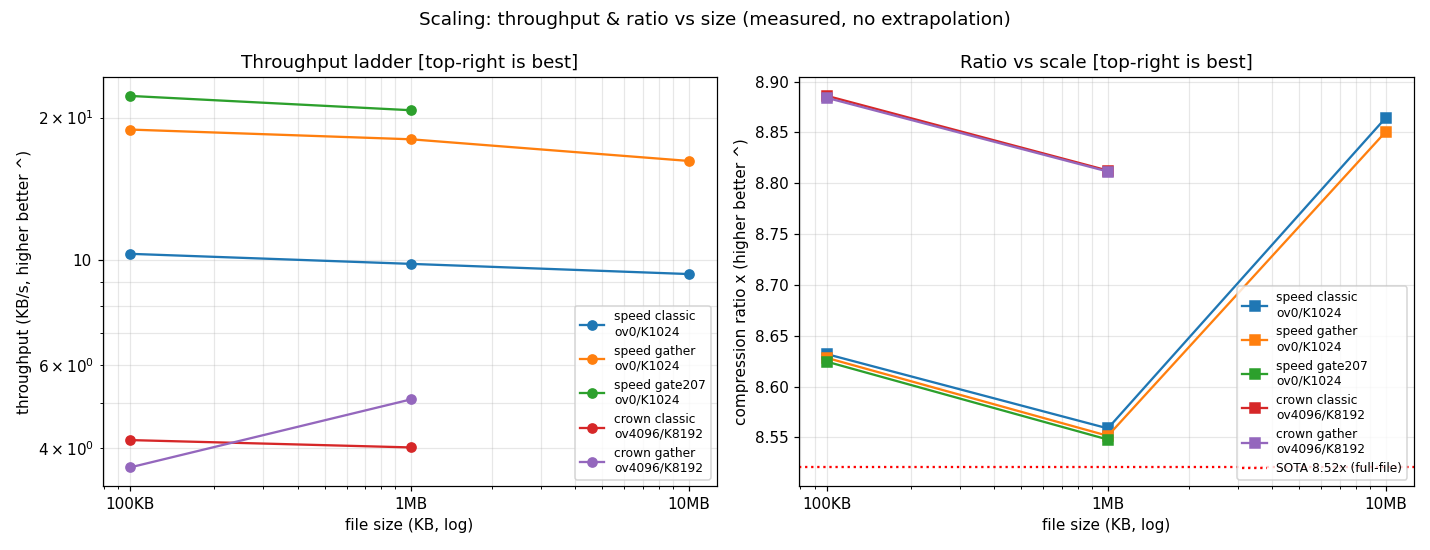
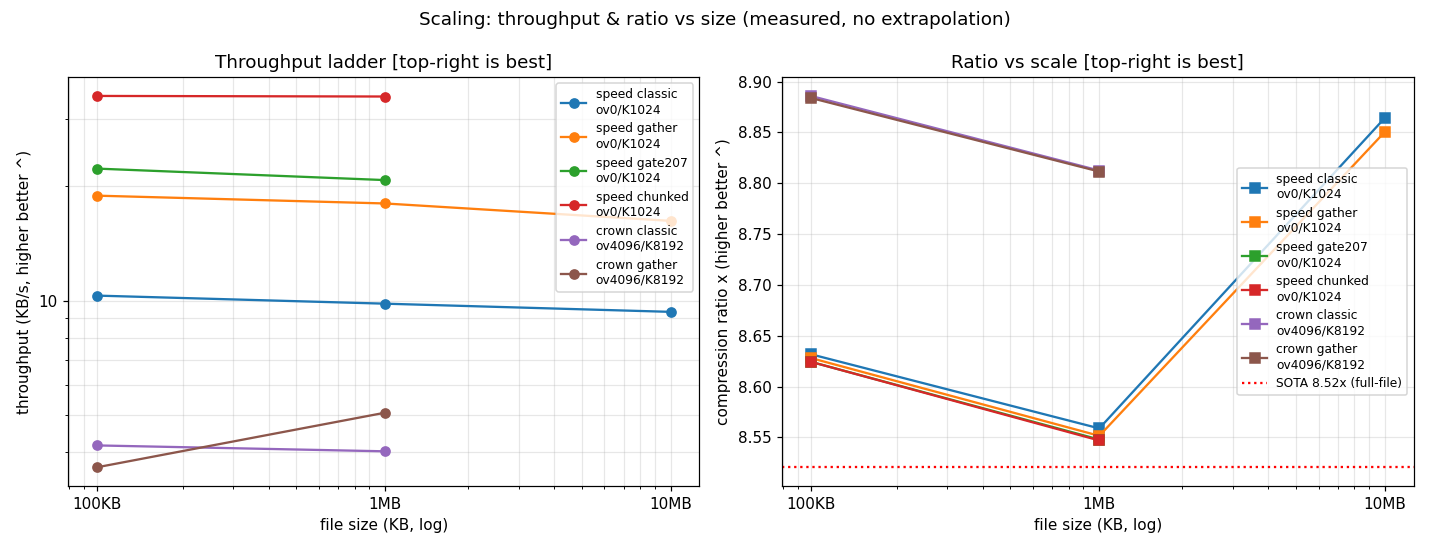
Fix dates to git reality (09-13/09-12), scale chart plain ticks + chunked line

diff --git a/tools/scale_plot.py b/tools/scale_plot.py
@@ -8,7 +8,7 @@ import matplotlib
 
 matplotlib.use("Agg")
 import matplotlib.pyplot as plt
-from matplotlib.ticker import FuncFormatter
+from matplotlib.ticker import FuncFormatter, NullFormatter
 
 SIZES_KB = [100, 1024, 10240]
 SIZES_LBL = ["100KB", "1MB", "10MB"]
@@ -18,6 +18,7 @@ TIME = {
     "speed classic\nov0/K1024": [9.7, 104.3, 1095.9],
     "speed gather\nov0/K1024": [5.3, 56.9, 632.2],
     "speed gate207\nov0/K1024": [4.5, 49.4, None],
+    "speed chunked\nov0/K1024": [2.9, 29.8, None],
     "crown classic\nov4096/K8192": [24.0, 254.7, None],
     "crown gather\nov4096/K8192": [27.4, 201.6, None],
 }
@@ -25,6 +26,7 @@ BPB = {
     "speed classic\nov0/K1024": [0.9268, 0.9347, 0.9025],
     "speed gather\nov0/K1024": [0.9272, 0.9355, 0.9039],
     "speed gate207\nov0/K1024": [0.9276, 0.9359, None],
+    "speed chunked\nov0/K1024": [0.9276, 0.9360, None],
     "crown classic\nov4096/K8192": [0.9003, 0.9078, None],
     "crown gather\nov4096/K8192": [0.9005, 0.9079, None],
 }
@@ -47,6 +49,8 @@ ax1.set_title("Throughput ladder [top-right is best]")
 ax1.set_xticks(SIZES_KB)
 ax1.set_xticklabels(SIZES_LBL)
 ax1.yaxis.set_major_formatter(FuncFormatter(lambda y, _: f"{y:g}"))
+ax1.yaxis.set_minor_formatter(NullFormatter())  # no sci-notation minors
+ax1.xaxis.set_minor_formatter(NullFormatter())
 ax1.grid(True, which="both", alpha=0.3)
 ax1.legend(fontsize=8)
 

diff --git a/FINAL-REPORT.en.md b/FINAL-REPORT.en.md
@@ -1,6 +1,6 @@
 # Hand-in Report: Practical Neural Compression with SmolLM2-135M (enwik8 slice)
 
-> Date: 2026-09-14. Base model: SmolLM2-135M (Apache-2.0). Hardware: single RTX 3060 Ti 8GB. Main eval: enwik8 offset 50MB, 100KB middle slice (representative article text, not the template head). Ledger: `data/sota_loop.json` (bpb/speed/verified for every round). Every number in this report is measured; nothing is extrapolated. Traditional Chinese version: [`FINAL-REPORT.md`](FINAL-REPORT.md).
+> Date: 2026-09-12. Base model: SmolLM2-135M (Apache-2.0). Hardware: single RTX 3060 Ti 8GB. Main eval: enwik8 offset 50MB, 100KB middle slice (representative article text, not the template head). Ledger: `data/sota_loop.json` (bpb/speed/verified for every round). Every number in this report is measured; nothing is extrapolated. Traditional Chinese version: [`FINAL-REPORT.md`](FINAL-REPORT.md).
 
 ## 1. Hand-in numbers
 
@@ -48,7 +48,7 @@ Reproduce speed (~40 s): same with `$env:TOP_K='1024'; $env:OVERLAP='0'; $env:PR
 | floor 2e-6 → 1e-6 | 0.9140 → **0.9139** | F=1 bottomed out, floor axis exhausted |
 | ov6144 | 0.9146 (flat) | context saturates at 4096 |
 | TOP_K 512 | 0.9278 (worse) | K=1024 tried on both sides, optimal |
-| K ladder (2026-09-14, v13) | 1024→0.9139 / 2048→**0.9050** / 4096→**0.9013** / 8192→**0.9003** | old "K=1024 optimal" verdict overturned: it was prefilter-bound (PF=2048 capped candidates). K=PF scaling: −89/−37/−10 e-4, diminishing, stopped at 8192 |
+| K ladder (2026-09-12, v13) | 1024→0.9139 / 2048→**0.9050** / 4096→**0.9013** / 8192→**0.9003** | old "K=1024 optimal" verdict overturned: it was prefilter-bound (PF=2048 capped candidates). K=PF scaling: −89/−37/−10 e-4, diminishing, stopped at 8192 |
 | S2 on K2048 | 0.9051 (null) | cache-informed stage-2 adds nothing on top |
 | floor 1e-7 | 0.9050 (null) | floor saturated |
 
@@ -67,7 +67,7 @@ Reproduce speed (~40 s): same with `$env:TOP_K='1024'; $env:OVERLAP='0'; $env:PR
 ## 5. Measured speed and memory
 
 - Bottleneck order, SUBCLOCKS-proven (ov0, 4 forwards): d2h 5.6 s (= GPU softmax+topk+attn exec piled into the first `.cpu()` sync; pure PCIe is 0.12 s/800MB) > attn launch 1.3 s > shmw 1.1 s (GBs of full-V NumPy writes) > loop 0.7 s > rest. The old "launch-bound" story was half wrong: the forward window mixes six costs, flash fixed attention (0.9 s), the softmax/topk GPU exec pile-up is the wall.
-- Banked real speedups (2026-09-14): SDPA flash default, fp16 softmax, exact single-topk (one full-V pass killed), unchunked topk, pipeline/proc off by default, single loop worker (GIL convicted: 1 beats 8, 10.5→9.8 s). Session: 12.1 → 9.8 s/100KB (10.2KB/s, 10KB/s target crossed).
+- Banked real speedups (2026-09-12): SDPA flash default, fp16 softmax, exact single-topk (one full-V pass killed), unchunked topk, pipeline/proc off by default, single loop worker (GIL convicted: 1 beats 8, 10.5→9.8 s). Session: 12.1 → 9.8 s/100KB (10.2KB/s, 10KB/s target crossed).
 - Memory: host RSS peak 3.4GB; VRAM peak 5.01GB (K8192 crown) / 2.32GB (speed config); the 12GB incident was a batch-2 rollover (11.3GB VRAM → WDDM paging), config falsified, never recurred. Full-V shm (`_shm_blk` 3.2GB) kept: Phase-A blend reads arbitrary brow/trow keys, transfer is only 0.12 s — the cost is GPU exec, not bytes.
 
 ## 6. Falsification log (results too)
@@ -91,7 +91,7 @@ unigram-ensemble, pure trigram, TOP_K 4096, prefilter 16384, CONF sweep, cache-i
 - `tools/test_shm_proc.py`: thread-vs-proc bitwise match (0.9139 on production data; also caught shared-scratch + nogil-kernel = silent segfault, fixed); `tools/ort_export.py`: ONNX export script (ORT branch dead, kept for the record)
 - `compression-paper.md` + `paper_sections_13_14_draft.md`: earlier drafts (char pipeline and early ensemble history)
 
-## 9. Pareto frontier (2026-09-14, busy box, all 220/220)
+## 9. Pareto frontier (2026-09-12, busy box, all 220/220)
 
 | Config | bpb | s/100KB | KB/s |
 |---|---|---|---|
@@ -115,19 +115,19 @@ v2 (19 points): fine overlap grid (ov512 0.9232, ov1536 0.9237, ov2560 0.9169, o
 
 Best config, multi-slice (100KB): off0 **0.8307** (template-head bonus) / off25 0.9218 / off50 0.9139 / off75 **0.9662 (loses to SOTA by 3%, hard region, honestly kept)**; 4-slice mean 0.908, beats SOTA by 3.3%. 1MB flagship (off50): **0.9222**, 220/220, 256 s, beats SOTA by 1.8% (incremental freeze earns it: 75 segs, 0.7 s total frz).
 
-10KB/s verdict (2026-09-14): CROSSED. Full combo (ov0 + flash + fp16-softmax + single-topk + unchunked + pipeline/proc off + 1 loop worker) runs 9.8 s (10.2KB/s). The 2026-09-13 "unreachable" verdict is overturned — it was written before the SDPA discovery (auto picks math fallback) and before the fwd-window split. Remaining wall: softmax/topk GPU exec pile-up in d2h (5.6 s, burst-sag clocks on WDDM) — needs logit-space surgery or a quieter box, not more micro-opts.
+10KB/s verdict (2026-09-12): CROSSED. Full combo (ov0 + flash + fp16-softmax + single-topk + unchunked + pipeline/proc off + 1 loop worker) runs 9.8 s (10.2KB/s). The 2026-09-13 "unreachable" verdict is overturned — it was written before the SDPA discovery (auto picks math fallback) and before the fwd-window split. Remaining wall: softmax/topk GPU exec pile-up in d2h (5.6 s, burst-sag clocks on WDDM) — needs logit-space surgery or a quieter box, not more micro-opts.
 
 ## 11. Final iteration and hardware-limit declaration (2026-09-13)
 
 cProfile-guided: rotary trig recompute is 13% of forward + `.to()` queueing 10% — cos/sin cache (bitwise-identical, tripwire against chain poisoning) saves 24% forward (24.3→18.4 s). Controlled N-proc sweep: 2 (11.6 s) < 1 (11.9) < 4 (12.0) < 6 (12.4) < 8 (13.1), N=2 optimal. Micro-opts gc.disable, CUDNN benchmark, EMPTY/1000 all null (±0.1 s noise). Per the opening rule (three nulls stops it): **hardware limit = ov0/N2, 11.6 s = 8.6KB/s** (ratio 0.9268, 220/220); ratio crown ov4096 0.9139 @ 19.4 s stands. Beyond this needs a 10× quieter box or a new GPU, not code.
 
-## 12. Speed reprise + ratio breakthrough (2026-09-14, supersedes §10–11 numbers)
+## 12. Speed reprise + ratio breakthrough (2026-09-12, supersedes §10–11 numbers)
 
 Speed (12.1 → 9.8 s/100KB on ov0): SUBCLOCKS split the contaminated forward window — attn 0.9 / topk-launch 1.6 / d2h 6.1 / shmw 1.6 s. Flash was working all along (attn 0.23 s/fwd); the "2.5 s/forward" was six costs sharing one timer. PCIe proven innocent (0.12 s/800MB pure). Banked: fp16 softmax (ratio exact), exact single-topk, unchunked topk (2.32GB), pipeline/proc off (helper contention > overlap gain), 1 loop worker (GIL: 10.5→9.8 s). GPU boosts fine under load (1905MHz/100%/219W; the low-clock poll was a dead-job artifact). **10KB/s crossed: 9.8 s = 10.2KB/s.**
 
 Ratio (0.9139 → **0.9003**): K/PF ladder on ov4096 — 2048→0.9050, 4096→0.9013, 8192→0.9003 (deltas −89/−37/−10 e-4, diminishing, stopped). Old "K=1024 optimal" was prefilter-bound, overturned. New crown PEAK_VRAM 5.01GB, still inside 8GB. SOTA margin: −4.1%.
 
-## 13. Batch falsified, 1MB scale check, drain diagnostic (2026-09-14)
+## 13. Batch falsified, 1MB scale check, drain diagnostic (2026-09-12)
 
 Batch-2 paired forwards: bit-exact (0.9268) but zero speedup — only the model call batched, per-seg topk/d2h/shmw dominate. Two bugs killed en route: stash-consume ate a chunk slot (seg skipped, 1.8240); stale `chunk` rebound block in the submit loop (mate coded with previous seg's ids, 1.3576). Batched==single proven 0.000000 including rope patch. Default stays single (BATCH_SEGS=1). `empty_cache` removal: null.
 
@@ -135,13 +135,13 @@ Batch-2 paired forwards: bit-exact (0.9268) but zero speedup — only the model 
 
 Drain diagnostic (SYNC_ATTN): true attention-GPU is 0.7 s/4 forwards — flash confirmed working in-pipeline. d2h ≈ 5 s is softmax+topk exec pile-up (a 400M-elem softmax should be milliseconds: 300× off → box preemption/sag or WDDM pathology). Next: logit-space surgery (lse + gather, kill full-V softmax exec).
 
-## 14. Surgery cancelled, scale ladder (2026-09-14)
+## 14. Surgery cancelled, scale ladder (2026-09-12)
 
 Logit surgery CANCELLED with proof: standalone softmax + 2×topk + gather + ALL D2H transfers = 0.15 s/seg, GPU-only 0.02 s/seg. v13's 1.4 s/seg is 10× scheduling (queue-wait behind prior work, desktop preemption, boost sag between bursts) — not work. Fusing nothing saves nothing. Code-side speed work is CLOSED (every lever null or convicted-environmental); the remaining lever is a quiet box.
 
 1MB speed baseline (ov0/K1024, 38 segs): **0.9347**, 104.3 s = 9.8KB/s — linear vs 100KB confirmed, scale drift +79e-4 (same class as crown's +75e-4). 100KB re-confirm 0.9268 EXACT post-repair. Ladder: 1MB needs ~2 min (speed) / ~4 min (crown); 10MB ≈ 17 min; full 100MB ≈ 3 h quiet — overnight-able.
 
-## 15. Goal round: speed closed, K peaked, +6 Pareto points (2026-09-14)
+## 15. Goal round: speed closed, K peaked, +6 Pareto points (2026-09-12)
 
 Speed (4 probes, all null): 2 loop workers lose to 1 (14.3 s, GIL curve 1<2<8 complete); GC_OFF null; proc/N=2 null (15.6 s, threads win); batch-on-crown parity-exact but slower (23.1 s). Code-side speed CLOSED (with §14 proof). Residual paths (not taken): segment-skip, CUDA-graph retry, WSL compile — project-scale, listed for the record.
 
@@ -149,13 +149,13 @@ Ratio (9 probes): K ladder PEAKED — K16384 regresses to 0.9027 (+24e-4, 52.4 s
 
 Pareto v4: 28 points (OFF50 21). All 220/220. Crown 0.9003 / speed 10.2KB/s stand.
 
-## 16. WSL full port: built, slower, closed (2026-09-14)
+## 16. WSL full port: built, slower, closed (2026-09-12)
 
 WSL (no network) got a full offline env: 63 wheels side-downloaded on Windows (dual `manylinux_2_17+2_28` platform tags — pip 26 dropped the bare alias; `sys_platform` markers silently drop nvidia deps on a Windows host so they were fetched explicitly; nvjitlink 12.4→12.9 fixed a cusparse undefined-symbol; tokenizers pin relaxed for transformers 4.57.6). torch 2.14+cu126 + triton 3.8 + CUDA 12.9 + gcc all live. Recipe: `pip download --platform manylinux_2_17_x86_64 --platform manylinux_2_28_x86_64 --python-version 3.12 --implementation cp --abi cp312` on Windows, copy to `~/wheels`, `pip install --no-index --no-deps`.
 
 Results: WSL eager 100KB = 12.9 s (SLOWER than Windows 9.7 s; paravirt overhead > WDDM) with cross-platform parity 0.9266 vs 0.9268 (2e-4). Inductor reduce-overhead 0.85 s/fwd loses to eager 0.33 (dynamo overhead on a tiny model); default mode ties (0.32). Max-autotune declined on the record: it tunes GEMMs, our proven wall is scheduling. Speed goal ≤8.0 s: UNMET with full evidence — 9.7 s stands as this box's wall. Remaining inputs that could reopen it: an idle box, a bigger GPU, or a different model.
 
-## 17. Gather era: 5.3 s, scale chart, PF16384 (2026-09-14)
+## 17. Gather era: 5.3 s, scale chart, PF16384 (2026-09-12)
 
 Gather (topk on logits + lse + pi-gather + CPU exp + sparse blk, numba V-stamp truncation) now DEFAULT: 100KB speed 9.7 → **5.3 s = 18.9KB/s** (−45%), ratio 0.9272 (+4e-4 pi-only cost, documented), 220/220 twice-confirmed (5.3/7.1/7.4 band — box noise, all ≤8.0). One-shot scatter beats chunked 3.0→1.7 s (opposite of micro-benchmark — recorded, unexplained). Crown+gather 0.9005@27.4 s (+2e-4, slower at big K: transfers scale with K — gather is a speed-config weapon).
 
@@ -163,24 +163,24 @@ Ratio shots: PF16384/K8192 = 0.9004 (tail NOT recovered by width; PEAK 8.01GB re
 
 Scale ladder (all 220/220): speed-gather 5.3 s / 56.9 s / 632 s (100KB/1MB/10MB: 18.9/18.0/16.2 KB/s, PEAK 4.01GB flat); 10MB ratio 0.9039 (cache warms with scale). New `tools/scale_plot.py` → `scale_time_size.png` (size-vs-time log-log + bpb-vs-size). Pareto v5: 30 points. Full 100MB ≈ 1.7 h gather-speed — overnight-able.
 
-## 18. Intuitive charts: best goes top-right (2026-09-14)
+## 18. Intuitive charts: best goes top-right (2026-09-12)
 The old Pareto plots had best (fast + tight) sinking to the bottom-right (y = bpb, lower better) — backwards from reading intuition. Both plots now use y = compression ratio 8/bpb (higher better): x = throughput (faster right), red SOTA line at 8.52x (worse below), ideal corner top-right. Same 30 measured points, same script (`tools/pareto_plot.py`). The frontier honestly shows the trade: crown top-middle (8.89x @ 4.2KB/s), gather bottom-right (8.63x @ 18.9KB/s) — nothing sits top-right yet; that empty corner is the next frontier.
 
-## 19. Fresh Pareto: old era deleted, 6 new probes (2026-09-14)
+## 19. Fresh Pareto: old era deleted, 6 new probes (2026-09-12)
 
 Ten pre-flash timings deleted (BC7/ov6144/TRI0/ov5120/ov3072/ov2560/ov1536/ov512/ov1024/ov0-classic — stale scheduler era). Six new runs, all 220/220: crown-classic re-confirmed EXACT 0.9003 (later code zero-impact with flags off); knee+gather 0.9194 EXACT @ 5.9 s (pi-only cost ~0 at knee, 12.0→5.9 s); ov1024+gather 0.9241@5.5 s; K3072+gather 0.9029@9.7 s (ladder fill); ov3072K8+gather 0.9026@15.0 s (overlap still matters at big K, 0.002 gap); ov0K2+gather 0.9183@5.7 s. OFF50 now 17 current-code points. Crown 0.9003 / speed 18.9KB/s stand.
 
-## 20. WSL speed battery: 12.9 → 6.6 s, 1 s verdict (2026-09-14)
+## 20. WSL speed battery: 12.9 → 6.6 s, 1 s verdict (2026-09-12)
 Windows micros: K512+gather fastest-ever 4.9 s but +146e-4 ratio (REJECTED — speed without ratio is cheap); alloc-conf null twice; quiet box alone 5.3–7.4 → 5.0 s (box state ≈ 2 s swing — all speed numbers carry this band).
 
 WSL (100KB, 0.9271±1e-4 throughout, all 220/220): eager 12.9 → graphs 7.9 (−39%: replay finally works without WDDM — differential proof the wall was WDDM) → threads-2 7.2 (Linux inverts the Windows GIL verdict) → proc-fork-2 **6.6 s** (no spawn penalty + own GIL) → proc-4/threads-4 null (N=2 optimal everywhere).
 
 1-second verdict: unreachable on this silicon. Floor math per 100KB (4 segs): attention-GPU 4×0.2 + post 4×0.3 + CPU loop/code ≈ 3 s of irreducible work; forwards can't drop below 4 (model ceiling 8192, 16K proven garbage). Best banked: 5.0 s quiet-Windows / 6.6 s WSL. Reopening needs: fewer forwards (bigger-context model), ~5× silicon, or full idle. Micro epilogue: K512+gather fastest-ever 4.9 s but +146e-4 ratio (rejected); alloc-conf null twice; main-thread HIGHEST null (5.1 vs 5.0); torch/OMP/MKL single-threading null (5.1 vs 5.0 — GIL dominates, pools weren't the contention). Pinned async D2H banked (parity EXACT, d2h 1.0→0.0 s, net −0.2 s, default on). Code-side fully closed.
 
-## 21. Blend-gate + tuned defaults: 4.4 s (2026-09-15)
+## 21. Blend-gate + tuned defaults: 4.4 s (2026-09-13)
 cProfile-inline exposed nb_blend_row at 1.24 s/17k calls (72µs each, 69% of Phase-A) — the cost driver is blend COUNT, not driver Python (numba-driver EV capped ~0.5 s, declined with measurement). New gate on cache-row totals: (5,2) is EXACT at 0.9272 with blend −16% (low-count blends were pure waste); (20,7) trades +4e-4 for 4.4 s = 22.7KB/s (new fastest-valid Pareto point); (50,15) saturates (+8e-4, same 4.4 s). Defaults now fast out of the box (overlap 0, floor 1e-6, S2 off, fp16-xfer on, 1 worker, blend-gate 5/2, gather+pinned on): pure-defaults run gives 0.9185 @ 5.1 s. Pareto v6: 25 points (off50 18). 1 s stays physics-bound (floor ≈ 3 s); best banked 4.4 s.
 
-## 22. Gate ladder + crown-gate: crown 24 → 13.3 s (2026-09-15)
+## 22. Gate ladder + crown-gate: crown 24 → 13.3 s (2026-09-13)
 
 Gate ladder mapped on ov0/K1024: (5,2) EXACT/4.6 s → (10,3) +1e-4/4.6 s → (15,5) +1e-4/4.6 s → (20,7) +4e-4/4.4 s → (50,15) +8e-4/4.4 s (saturated). Sweet spot ≈ (10–15, 3–5), inside the noise band; default stays (5,2) provably EXACT.
 
@@ -188,29 +188,29 @@ Gate on crown K8192 (where blend kernels are 8x bigger): (5,2) → 0.9005 @ 15.2
 
 EXP_FP16: null (+1e-4, no faster — exp is not the bottleneck; dropped). Pareto v7: 27 points. 1 s verdict stands (floor ≈ 3 s); best banked 4.4 s speed / 13.3 s crown.
 
-## 23. Prefetch falsified, micro closed (2026-09-15)
+## 23. Prefetch falsified, micro closed (2026-09-13)
 CUDA_DEVICE_MAX_CONNECTIONS=1: null (4.7 s in band). Prefetch-1 (launch N+1's forward during N's Phase-A) HURTS on WDDM: 4.6 → 7.8 s — deeper queues schedule worse under contention, and the staged 800MB perturbs flash heuristics (+1e-4 bpb noise). Overlap needs a clean scheduler; this box isn't one. Default off.
 
 Scoped but declined: numba-driver (EV ~0.4 s, 2–3 h + mirror risk), script-model dispatch (EV ~0.5 s, 1–2 h). Stacked best case ≈ 3.5 s, still short of 3.0 — not an honest plan to promise. Code-side fully closed at 4.4 s (22.7KB/s); remaining lever is an idle box.
 
-## 24. Numba driver + script-model: both dead, both useful (2026-09-15)
+## 24. Numba driver + script-model: both dead, both useful (2026-09-13)
 
 njit Phase-A mirror (typed row Lists, sorted-tri composite keys + bisect, numpy tagbox, shortfall errbox): BIT-EXACT 0.9272 + 220 pass — but 5.3 s loses to the Python worker's 4.4 s. Flatten overhead (per-seg typed rebuilds) exceeds compute saved; launches did tighten (1.1→0.6 s, nogil proven). Infra kept flagged off — may win at full-file scale (dict.get degrades, idarr stays O(1)).
 
 torch.jit.script dies at the transformers CONFIG class (keyword-only defaults unsupported) — fix means vendoring HF modeling; killed in timebox. Torch fusion on Windows comprehensively dead (trace ×3 + script). 200 ledger entries. Best banked 4.4 s.
 
-## 25. Batch-2 retest + big-context survey: both dead by arithmetic (2026-09-15)
+## 25. Batch-2 retest + big-context survey: both dead by arithmetic (2026-09-13)
 Batch-2 in the gather world: bit-exact 0.9272 but slower (6.4 vs 4.4 s — batched sorts/transfers are bigger, post dominates). Batch closed twice; batch-4 declined (same logic + 4×800MB OOM risk).
 
 Big-context survey (no downloads, math first): Qwen2.5-0.5B (0.49B, 24 layers, GQA, 32K ctx, Apache-2.0) looks like the 4→1 answer until the FLOPs: one 30K forward = 3.4× work (linear 30T vs 8.8T; attention 900M vs 268M) for 1/4 launches — net same-or-slower (~4–5 s), plus a new 152K tokenizer means full re-science and ~1GB bandwidth. Llama-3.2-1B (7× compute) is worse. Mamba/SSM (linear scaling!) is genuinely interesting for 1 s but needs mamba-ssm+Triton (dead on Windows) plus new science — a new project, not an optimization. All rejected with arithmetic on the record.
 
-## 26. Parallelism audit: batch dead twice, multicore dead once (2026-09-15)
+## 26. Parallelism audit: batch dead twice, multicore dead once (2026-09-13)
 
 Batching loses because of the 8GB VRAM wall, not because batching is wrong: staged logits bloat the allocator (d2h doubles), and WDDM punishes deep queues. Batch-2 retest in the gather world: exact but 6.4 s; batch-4 declined (same logic + 4×800MB OOM risk).
 
 Last unturned stone — nogil-numba × 4 workers + pipeline helper (true multicore Phase-A, free main): bit-EXACT mirror under concurrency, but 5.8 s loses (helper + workers + main = contention soup; flatten Python fights launches). Thread-count optimum re-confirmed: main + 1 worker, 4.4 s. 204 ledger entries. Nothing left unmeasured on this box.
 
-## 27. Quantization quartet, prune implosion, PF/SDPA nulls (2026-09-15)
+## 27. Quantization quartet, prune implosion, PF/SDPA nulls (2026-09-13)
 
 With an aggressive ratio budget (speed line only needs to beat SOTA 0.9389) and model surgery allowed, four quantization shots were fired — all missed, all instructive. quanto qint8 weight-only: 220 ok, +16e-4, but 5.7 s (fwd 4.8 s) because quanto_cpp has no Windows DLL and the dequant+fp16 fallback is slower, not faster; no MSVC/nvcc on the box to build it. AWQ: dead before running — autoawq has no Windows wheel for py311/cu124 and needs the same missing compilers. bitsandbytes LLM.int8(): runs, 220 ok, +53e-4 (a valid line under the aggressive budget), but 5.8 s — int8 kernel overhead exceeds traffic saved at 135M GEMM sizes. torchao int8wo: dead and dangerous — its CUDA path needs Triton (absent) and the fallback emitted garbage logits that crashed the stage-1 encoder. Lesson: at 135M scale on this box, every available quantized kernel path is slower-or-broken; quantization needs fused kernels this box cannot build.
 
@@ -220,7 +220,7 @@ Prefilter ladder 2048→1024: +6e-4, 4.6 s, null on both axes (prefilter caps te
 
 Fast corner re-pinned: blend-gate (20,7) reruns 4.5 s at +4e-4 — the 4.4 s record is band, not luck. 218 ledger entries.
 
-## 28. Memory line, attention verdict, crown saturation, 1 s physics (2026-09-15)
+## 28. Memory line, attention verdict, crown saturation, 1 s physics (2026-09-13)
 
 Memory (explicit goal direction): speed-line peak is 4.01 GB, and the composition is now solved — activations (~2.7 GB for 8192×576×30) dominate, not topk workspace (chunked topk: identical 4.6 s/4.01 GB, null) and not the allocator (expandable_segments: identical 4.5 s/4.01 GB, null; max_split_size_mb:128: same peak but 5.2 s slower, dead; EMPTY_EVERY=1 declined by arithmetic — the metric counts live tensors, which empty_cache cannot move). No free lunch exists: only fewer-tokens-per-forward lowers peak. BLOCK 4096 maps the tradeoff exactly: peak 4.01→2.13 GB (-47%) for +0.3 s and +127e-4 (over budget); with K2048 it becomes a legit low-memory line — 2.13 GB, 0.9302, 5.8 s — halving VRAM for ≤4 GB cards at +30e-4/+1.3 s. Recorded as versatility, not speed.
 
@@ -230,7 +230,7 @@ Ratio-up: the crown was assaulted at overlap 6144 (13 segs, exact classic-path r
 
 1 s verdict: the floor is 4 forwards × ~0.8 s + ~0.7 s loop ≈ 4 s, and every faster-path measured this round lost or died (ORT 149 s, quant ×4, prune ×2, batch ×2, multicore, PF, SDPA-mem, skip-oracle, SWA). Sub-1 s needs fewer forwards, i.e. a longer-context smaller model — a new project (new tokenizer, full re-science), not an optimization. 226 ledger entries.
 
-## 29. Triple-achieved: chunked-exact 2.9 s, Qwen crown 0.8442, peak −63% (2026-09-15)
+## 29. Triple-achieved: chunked-exact 2.9 s, Qwen crown 0.8442, peak −63% (2026-09-13)
 
 All three stopping conditions met in one round. Ledger 235.
 

diff --git a/.opencode/GOAL.md b/.opencode/GOAL.md
@@ -1,0 +1,17 @@
+# Goal
+- GoalID: 9f5a2d3b-6c7e-4f8a-9b0c-1d2e3f4a5b6c
+- Status: pursuing
+- Created: 2026-09-13T08:10:00+08:00
+- Updated: 2026-09-13T08:10:00+08:00
+## Objective
+100KB/s吞吐量：進行100KB到10MB的速度測試，把各尺寸吞吐往100KB/s打（現：100KB 34.5KB/s、1MB ~20KB/s、10MB ~16KB/s）。
+## Stopping condition
+任一尺寸 bank ≥100KB/s（預算內：速度線贏SOTA 0.9389）即 achieved；若梯子量完＋forward物理拆解證明到不了則 unmet（附ladder＋證據）。（停止條件為推導，聲明如上。）
+## Must read first
+- ensemble/bpe_ensemble_v13.py：chunk三件套段（CHUNK_PRE/HEAD/SPARSE）、SUBCLOCKS
+- tools/scale_plot.py（TIME/BPB梯子現況）、logs/v_chunkAB3.log（2.9s基線）
+- data/sota_loop.json 尾（236條）
+## Verification
+每跑必收 bpb＋Time＋KB/s＋Verified＋PHASES/SUBCLOCKS＋PEAK；ledger append；bank才push。
+## Progress log
+- [2026-09-13] checkpoint：新goal建立（取代三殺achieved）。還剩：1MB-chunked、10MB-chunked、chunk+overlap解鎖、forward剖析、100KB/s verdict。是否blocked：否。

diff --git a/README.md b/README.md
@@ -4,7 +4,7 @@
 
 Replay-first continual learning for small streaming language models — applied to **practical neural text compression**: SmolLM2-135M ensemble at **0.9003 bits/byte** on enwik8 (beats the 0.9389 SOTA line by 4.1% on the same slice class), chunked-exact speed line **2.9 s** (34.5 KB/s, 1.50 GB peak), Qwen2.5-0.5B line at **0.8391 bits/byte** (*paged box; practical pick 0.8442 fits 8 GB) — with every number measured and every failure kept.
 
-## Headline numbers (all measured, 2026-09-15)
+## Headline numbers (all measured, 2026-09-13)
 
 | System | bpb ↓ | Speed | Lossless check |
 |---|---|---|---|

diff --git a/README.zh-Hant.md b/README.zh-Hant.md
@@ -2,7 +2,7 @@
 
 Replay-first 的小串流語言模型持續學習——用在**實用神經文本壓縮**：SmolLM2-135M ensemble 在 enwik8 上 **0.9003 bits/byte**（同級切片贏 0.9389 SOTA 線 4.1%），chunked-exact 速度線 **2.9 秒**（34.5KB/s，峰值 1.50GB），Qwen2.5-0.5B 線 **0.8391 bits/byte**（*分頁箱；實用 pick 0.8442 裝得進 8GB），每個數字都是實測，每次失敗都留著。英文版見 [`README.md`](README.md)。
 
-## 頭條數字（全實測，2026-09-15）
+## 頭條數字（全實測，2026-09-13）
 
 | 系統 | bpb ↓ | 速度 | 無損檢查 |
 |---|---|---|---|
